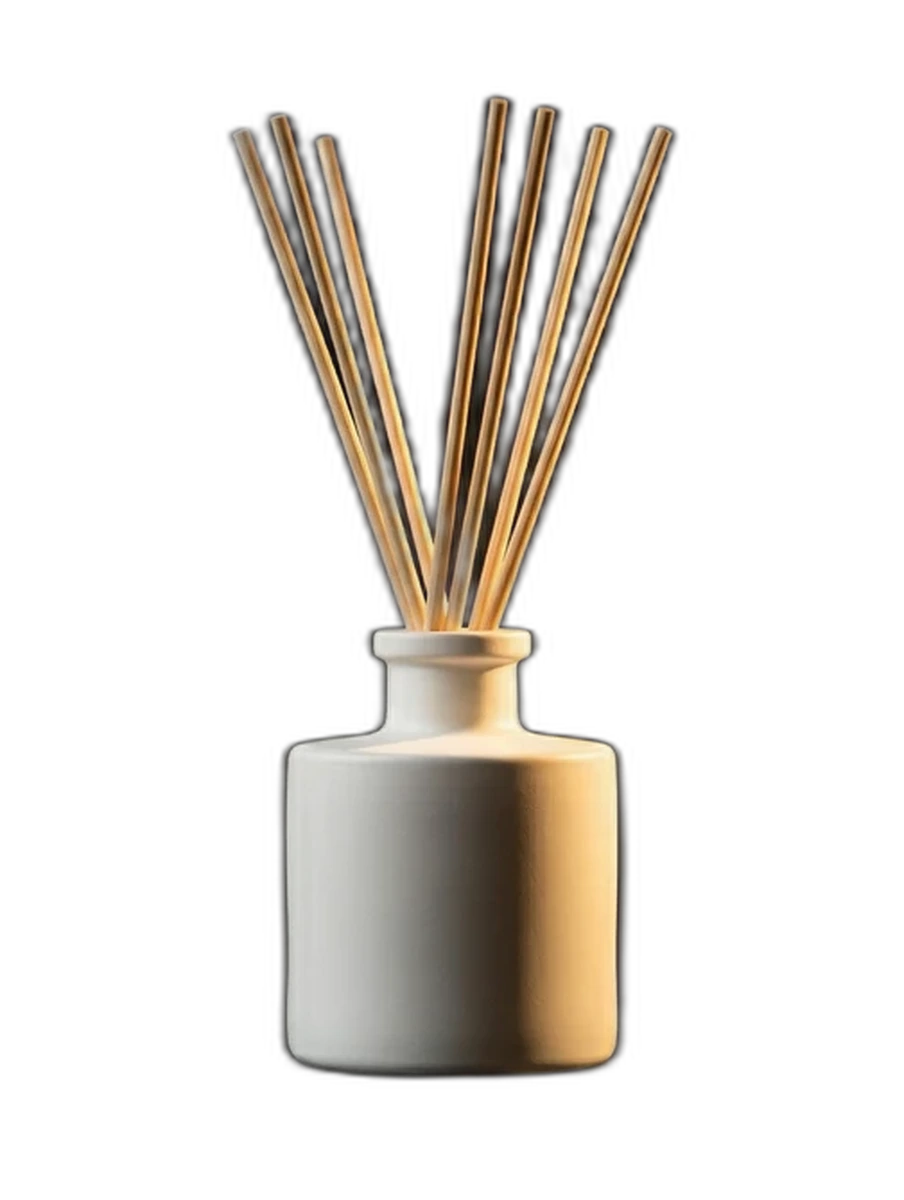
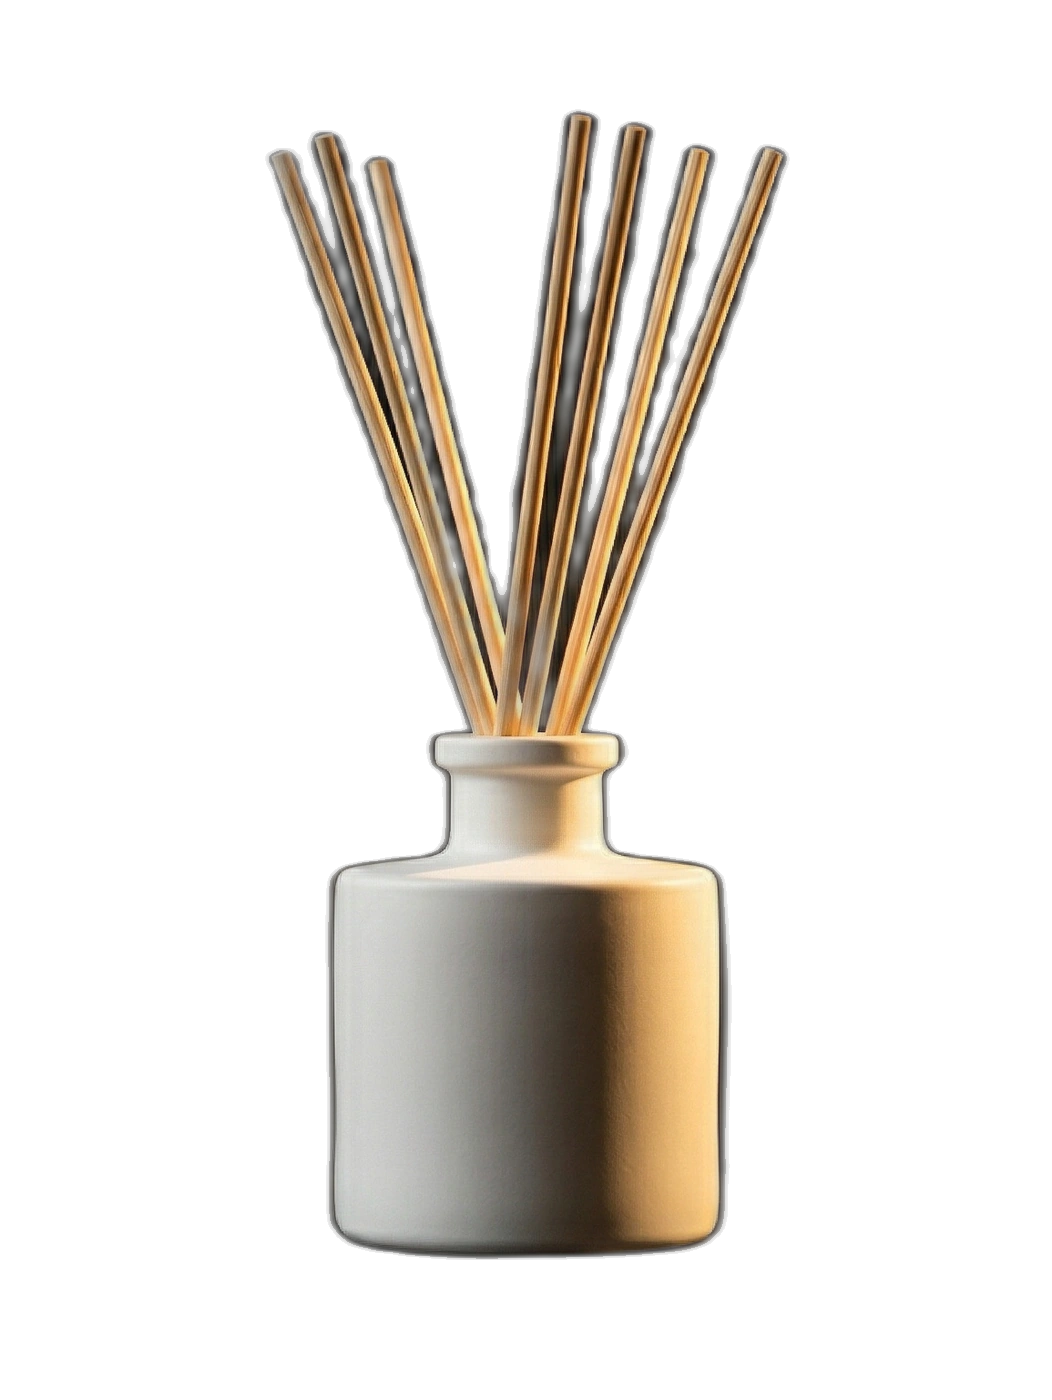
Fix hero: clean image transparency, size product to fit headline
- Re-detour diffuser with halo cleanup (near-transparent pixels removed)
- Product height capped at 45vh to guarantee headline stays visible
- Logo and SENTEURS ghost text opacity increased for visibility
- Product + headline in single flex column that fits viewport

diff --git a/src/components/sections/Hero.tsx b/src/components/sections/Hero.tsx
@@ -18,60 +18,38 @@ export default function Hero() {
   const glowRef = useRef<HTMLDivElement>(null);
   const reduced = useReducedMotion();
 
-  // Gate the entrance animation behind the loading screen delay
   useEffect(() => {
     const t = setTimeout(() => setVisible(true), LOADING_SCREEN.heroRevealDelay);
     return () => clearTimeout(t);
   }, []);
 
-  // Three-layer parallax: glow drifts slowest, product mid, text fastest + fades
   useEffect(() => {
     if (reduced) return;
     const section = sectionRef.current;
     if (!section) return;
 
     const ctx = gsap.context(() => {
-      // Product: slow upward drift keeps it in frame longer
       if (productWrapRef.current) {
         gsap.to(productWrapRef.current, {
           y: -80,
           ease: "none",
-          scrollTrigger: {
-            trigger: section,
-            start: "top top",
-            end: "bottom top",
-            scrub: true,
-          },
+          scrollTrigger: { trigger: section, start: "top top", end: "bottom top", scrub: true },
         });
       }
-
-      // Text: faster drift + fade out so it clears before the next section
       if (textWrapRef.current) {
         gsap.to(textWrapRef.current, {
           y: -160,
           opacity: 0,
           ease: "none",
-          scrollTrigger: {
-            trigger: section,
-            start: "top top",
-            end: "65% top",
-            scrub: true,
-          },
+          scrollTrigger: { trigger: section, start: "top top", end: "65% top", scrub: true },
         });
       }
-
-      // Glow: slowest drift + slight scale growth for depth
       if (glowRef.current) {
         gsap.to(glowRef.current, {
           y: -30,
           scale: 1.2,
           ease: "none",
-          scrollTrigger: {
-            trigger: section,
-            start: "top top",
-            end: "bottom top",
-            scrub: true,
-          },
+          scrollTrigger: { trigger: section, start: "top top", end: "bottom top", scrub: true },
         });
       }
     }, section);
@@ -80,118 +58,119 @@ export default function Hero() {
   }, [reduced]);
 
   return (
-    <section ref={sectionRef} id="hero" className="relative bg-noir-profond" style={{ height: "185vh" }}>
-      {/* Sticky viewport — content locks to screen while outer 185vh scrolls */}
+    <section ref={sectionRef} id="hero" className="relative bg-noir-profond" style={{ height: "180vh" }}>
       <div className="sticky top-0 h-screen flex flex-col items-center justify-center overflow-hidden">
 
-        {/* Ambient gold particles */}
+        {/* Particles */}
         <GoldenMist />
 
-        {/* Diffuse glow behind the product */}
-        <div
-          ref={glowRef}
-          className="absolute inset-0 flex items-center justify-center pointer-events-none z-[2]"
-        >
-          <div className="w-[300px] h-[480px] md:w-[420px] md:h-[640px] lg:w-[480px] lg:h-[720px] bg-or-luxe/[0.07] rounded-full blur-[120px]" />
+        {/* Glow */}
+        <div ref={glowRef} className="absolute inset-0 flex items-center justify-center pointer-events-none z-[2]">
+          <div className="w-[300px] h-[400px] md:w-[380px] md:h-[550px] bg-or-luxe/[0.06] rounded-full blur-[100px]" />
         </div>
 
-        {/* Product composition — CSS entrance (scale + fade), then GSAP parallax */}
-        <div
-          ref={productWrapRef}
-          className="relative z-10"
-          style={{
-            opacity: visible ? 1 : 0,
-            transform: visible ? "scale(1) translateY(0)" : "scale(1.06) translateY(24px)",
-            transition: "opacity 1.4s cubic-bezier(0.16, 1, 0.3, 1), transform 1.4s cubic-bezier(0.16, 1, 0.3, 1)",
-          }}
-        >
-          <div
-            className="relative mx-auto"
-            style={{ width: "min(55vw, 460px)", aspectRatio: "904/1200" }}
-          >
-            <Image
-              src="/images/products/diffuseur-hero-portrait.webp"
-              alt="Diffuseur Libellule Senteurs"
-              fill
-              className="object-contain"
-              style={{ filter: "drop-shadow(0 40px 80px rgba(201,151,0,0.10))" }}
-              priority
-              sizes="(max-width: 768px) 55vw, 460px"
-            />
+        {/* Product + text stacked in a flex column that fits viewport */}
+        <div className="relative z-10 flex flex-col items-center justify-center flex-1 w-full py-20 md:py-24">
 
-            {/* Small brand mark centered on the bottle body */}
-            <div
-              className="absolute left-1/2 -translate-x-1/2 pointer-events-none"
-              style={{
-                top: "57%",
-                opacity: visible ? 0.6 : 0,
-                transition: "opacity 1.2s ease-out 2.0s",
-              }}
-            >
-              <svg
-                viewBox="0 0 60 60"
-                className="w-8 h-8 md:w-10 md:h-10 lg:w-12 lg:h-12 mx-auto"
-                fill="none"
-                stroke="#C99700"
-                strokeWidth="0.8"
+          {/* Product */}
+          <div
+            ref={productWrapRef}
+            className="relative"
+            style={{
+              opacity: visible ? 1 : 0,
+              transform: visible ? "scale(1) translateY(0)" : "scale(1.06) translateY(24px)",
+              transition: "opacity 1.4s cubic-bezier(0.16, 1, 0.3, 1), transform 1.4s cubic-bezier(0.16, 1, 0.3, 1)",
+            }}
+          >
+            {/* Product image — height capped at 45vh to leave room for headline */}
+            <div className="relative mx-auto h-[40vh] md:h-[45vh] aspect-[1052/1400]">
+              <Image
+                src="/images/products/diffuseur-hero-portrait.webp"
+                alt="Diffuseur Libellule Senteurs"
+                fill
+                className="object-contain"
+                style={{ filter: "drop-shadow(0 30px 60px rgba(201,151,0,0.10))" }}
+                priority
+                sizes="(max-width: 768px) 40vh, 45vh"
+              />
+
+              {/* Logo on bottle body */}
+              <div
+                className="absolute left-1/2 -translate-x-1/2 pointer-events-none"
+                style={{
+                  top: "58%",
+                  opacity: visible ? 0.8 : 0,
+                  transition: "opacity 1.2s ease-out 2s",
+                }}
+              >
+                <svg
+                  viewBox="0 0 60 60"
+                  className="w-7 h-7 md:w-9 md:h-9 lg:w-10 lg:h-10 mx-auto"
+                  fill="none"
+                  stroke="#C99700"
+                  strokeWidth="0.8"
+                  aria-hidden="true"
+                >
+                  <circle cx="30" cy="30" r="22" opacity="0.5" />
+                  <path d="M30 30 Q22 22 26 14 Q30 20 30 30" fill="#C99700" opacity="0.6" />
+                  <path d="M30 30 Q38 22 34 14 Q30 20 30 30" fill="#C99700" opacity="0.45" />
+                  <path d="M30 30 L30 42" strokeLinecap="round" opacity="0.5" />
+                </svg>
+                <p className="font-heading text-[5px] md:text-[7px] text-or-luxe/60 tracking-[0.1em] text-center whitespace-nowrap mt-px">
+                  Libellule Senteurs
+                </p>
+              </div>
+
+              {/* "SENTEURS" ghost text between sticks */}
+              <div
+                className="absolute top-[2%] left-1/2 -translate-x-1/2 pointer-events-none select-none"
+                style={{
+                  opacity: visible ? 1 : 0,
+                  transition: "opacity 1s ease-out 2.2s",
+                }}
                 aria-hidden="true"
               >
-                <circle cx="30" cy="30" r="22" opacity="0.35" />
-                <path d="M30 30 Q22 22 26 14 Q30 20 30 30" fill="#C99700" opacity="0.45" />
-                <path d="M30 30 Q38 22 34 14 Q30 20 30 30" fill="#C99700" opacity="0.30" />
-                <path d="M30 30 L30 42" strokeLinecap="round" opacity="0.35" />
-              </svg>
+                <p className="font-heading text-blanc-casse/[0.08] text-3xl md:text-4xl lg:text-5xl tracking-[0.3em] whitespace-nowrap">
+                  SENTEURS
+                </p>
+              </div>
             </div>
+          </div>
 
-            {/* "SENTEURS" ghost text — atmospheric depth layer */}
-            <div
-              className="absolute top-[3%] left-1/2 -translate-x-1/2 pointer-events-none select-none"
-              style={{
-                opacity: visible ? 1 : 0,
-                transition: "opacity 1.0s ease-out 2.2s",
-              }}
-              aria-hidden="true"
-            >
-              <p className="font-heading text-blanc-casse/[0.04] text-5xl md:text-6xl lg:text-7xl tracking-[0.28em] whitespace-nowrap">
-                SENTEURS
-              </p>
-            </div>
+          {/* Headline */}
+          <div
+            ref={textWrapRef}
+            className="text-center mt-8 md:mt-10 px-6"
+            style={{
+              opacity: visible ? 1 : 0,
+              transform: visible ? "translateY(0)" : "translateY(20px)",
+              transition: "opacity 1s cubic-bezier(0.16, 1, 0.3, 1) 0.7s, transform 1s cubic-bezier(0.16, 1, 0.3, 1) 0.7s",
+            }}
+          >
+            <h1 className="font-heading text-2xl sm:text-3xl md:text-4xl lg:text-5xl text-blanc-casse leading-[1.3]">
+              L&apos;essence du raffinement
+              <br />
+              <em className="text-or-luxe not-italic">invisible</em>
+            </h1>
+            <p className="font-body text-[9px] md:text-[10px] text-blanc-casse/30 tracking-[0.3em] uppercase mt-4 md:mt-6">
+              Parfums d&apos;intérieur Haut de Gamme
+            </p>
           </div>
         </div>
 
-        {/* Headline — appears after product, scrolls out faster via GSAP */}
-        <div
-          ref={textWrapRef}
-          className="relative z-10 text-center mt-10 md:mt-14 px-8"
-          style={{
-            opacity: visible ? 1 : 0,
-            transform: visible ? "translateY(0)" : "translateY(20px)",
-            transition: "opacity 1.0s cubic-bezier(0.16, 1, 0.3, 1) 0.7s, transform 1.0s cubic-bezier(0.16, 1, 0.3, 1) 0.7s",
-          }}
-        >
-          <h1 className="font-heading text-3xl sm:text-4xl md:text-5xl lg:text-6xl text-blanc-casse leading-[1.25] tracking-wide">
-            L&apos;essence du raffinement
-            <br />
-            <em className="text-or-luxe not-italic">invisible</em>
-          </h1>
-          <p className="font-body text-[9px] md:text-[10px] text-blanc-casse/30 tracking-[0.35em] uppercase mt-5 md:mt-7">
-            Parfums d&apos;intérieur Haut de Gamme
-          </p>
-        </div>
+        {/* Bottom gradient */}
+        <div className="absolute bottom-0 left-0 right-0 h-36 bg-gradient-to-t from-noir-profond to-transparent z-[15] pointer-events-none" />
 
-        {/* Gradient fade at the bottom eases into the next section */}
-        <div className="absolute bottom-0 left-0 right-0 h-40 bg-gradient-to-t from-noir-profond to-transparent z-[15] pointer-events-none" />
-
-        {/* Scroll cue — animated line + label */}
+        {/* Scroll cue */}
         <div
-          className="absolute bottom-8 left-1/2 -translate-x-1/2 z-20 flex flex-col items-center gap-3"
-          style={{ opacity: visible ? 1 : 0, transition: "opacity 0.6s ease-out 3.4s" }}
+          className="absolute bottom-6 left-1/2 -translate-x-1/2 z-20 flex flex-col items-center gap-2"
+          style={{ opacity: visible ? 1 : 0, transition: "opacity 0.6s ease-out 3.2s" }}
           aria-hidden="true"
         >
           <span className="font-body text-[8px] text-blanc-casse/20 tracking-[0.3em] uppercase">
             Découvrir
           </span>
-          <div className="w-px h-8 bg-gradient-to-b from-or-luxe/40 to-transparent animate-pulse" />
+          <div className="w-px h-6 bg-gradient-to-b from-or-luxe/30 to-transparent animate-pulse" />
         </div>
       </div>
     </section>
